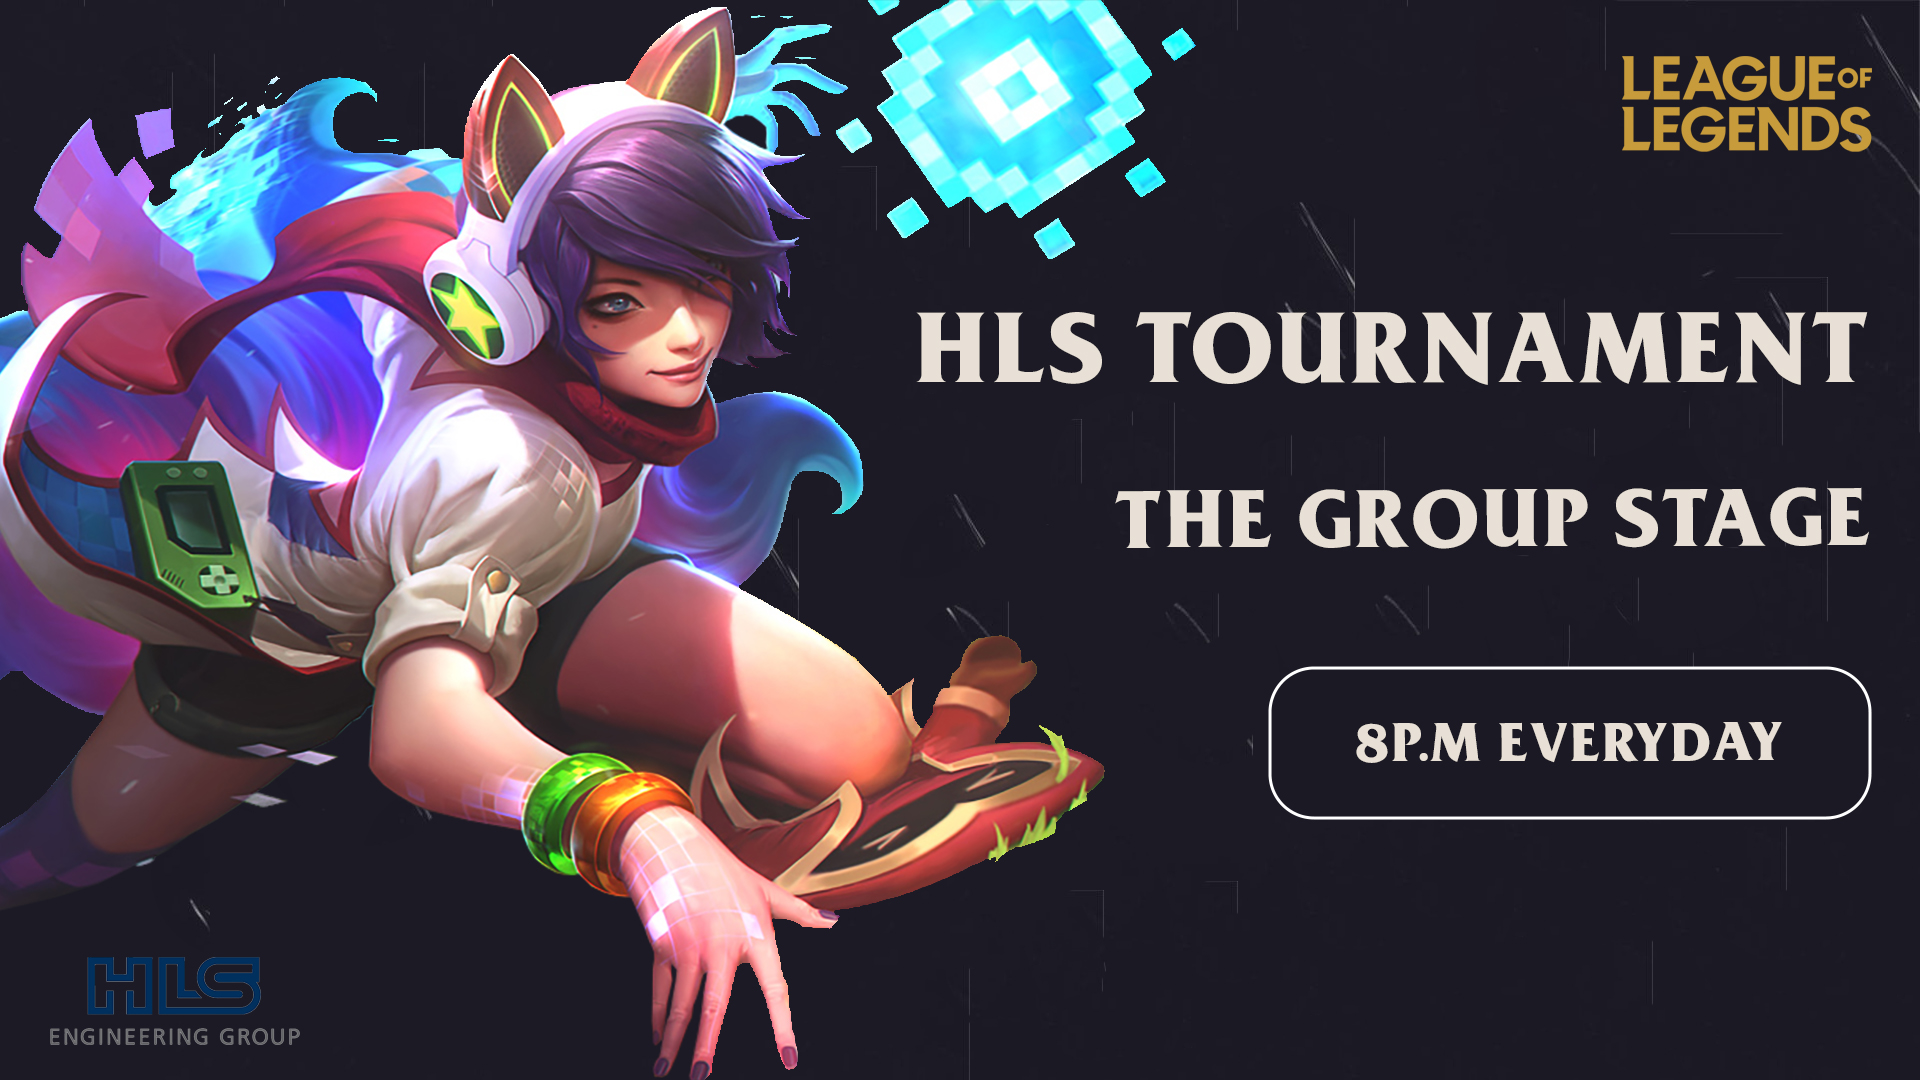
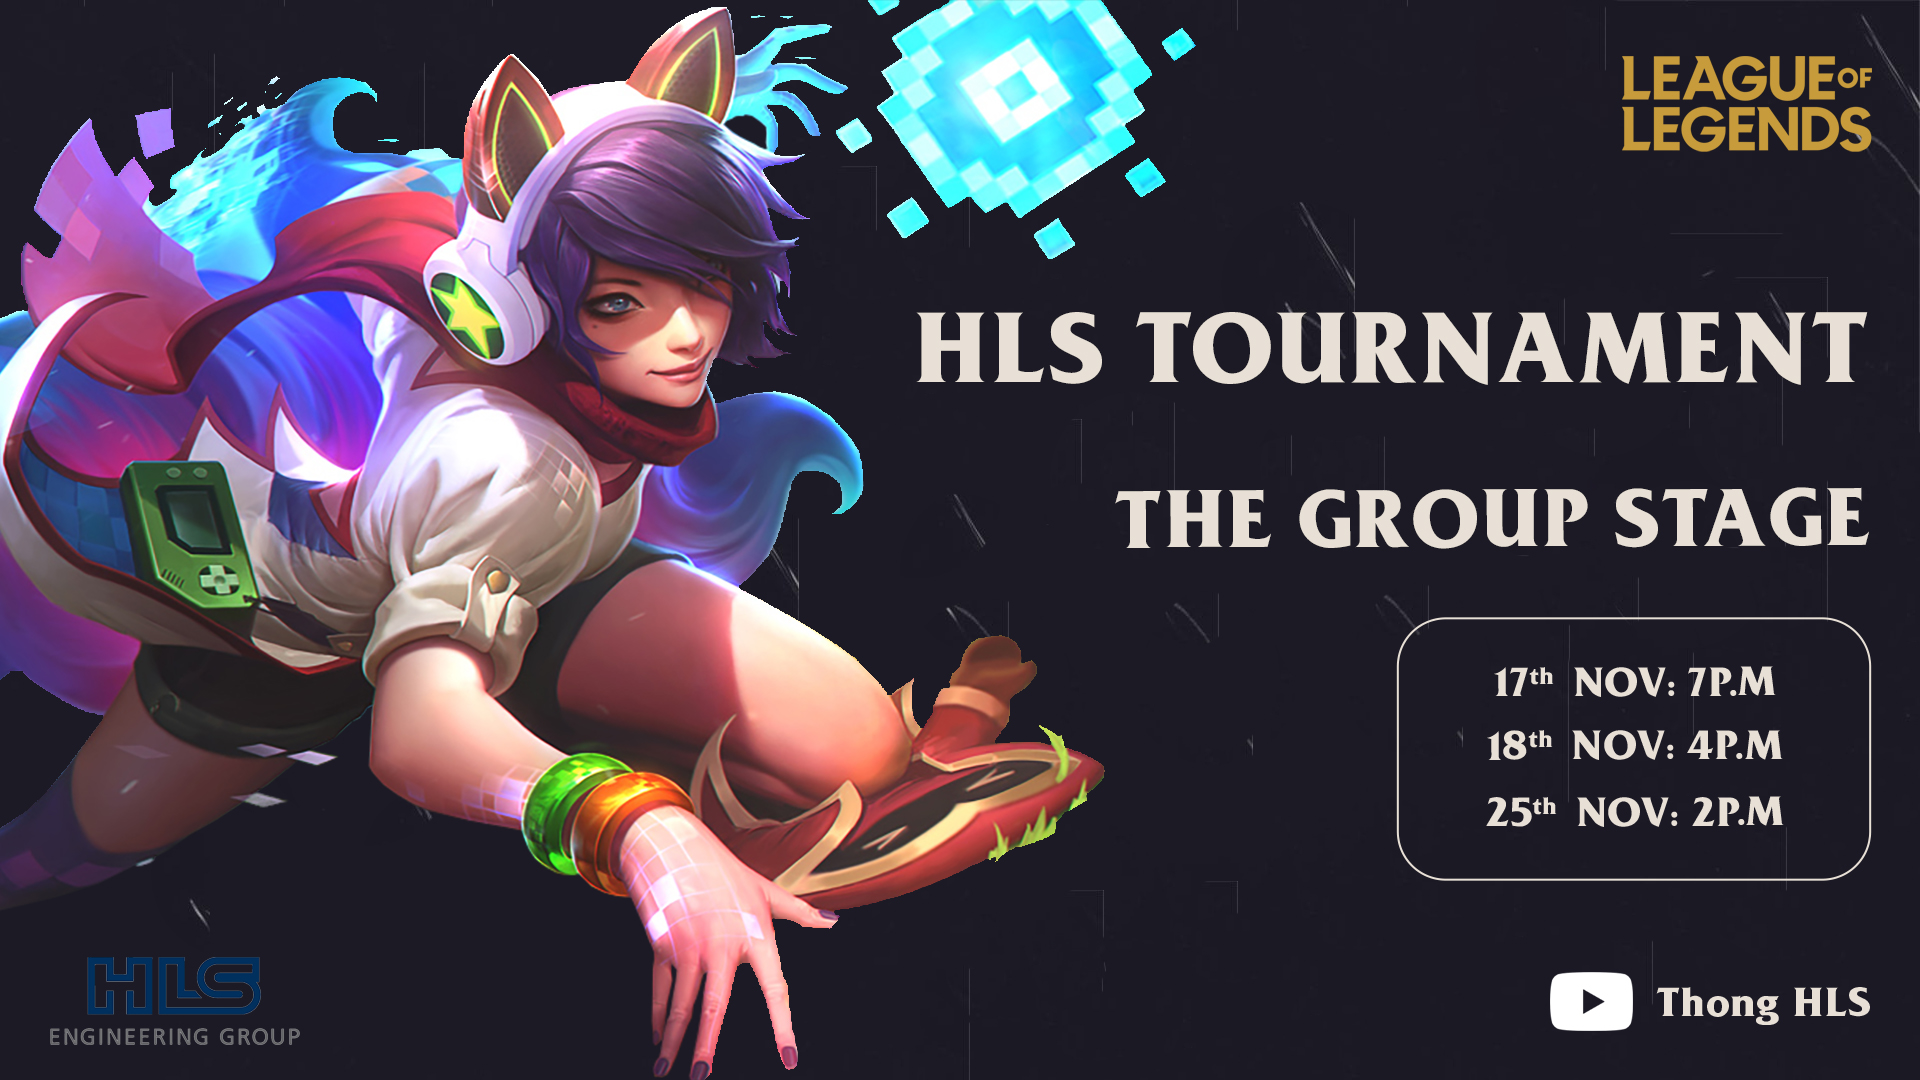
up day 2 18th november

Changed region(s): [[0.6562, 0.6111, 0.9688, 0.7028], [0.6562, 0.7333, 0.9688, 0.7639], [0.7812, 0.8861, 0.9688, 0.9778]]

diff --git a/app/[page]/UI.js b/app/[page]/UI.js
@@ -11,7 +11,7 @@ export default function Index({ dataPage }) {
   /////////////////////////////
   ////// TRANSITION SCHEDULE
   const [day, setDay] = useState({
-    number: 0,
+    number: 2,
     date: [
       '(17<sup>th</sup> NOV)',
       '(18<sup>th</sup> NOV)',
@@ -29,30 +29,30 @@ export default function Index({ dataPage }) {
     }, 1100)
   }
 
-  useEffect(() => {
-    const intervalId = setInterval(() => {
-      if (day.number >= 0 && day.number < 3) {
-        setTimeout(() => {
-          setDay(prevDay => ({
-            ...prevDay,
-            number: prevDay.number + 1
-          }));
-        }, 500)
+  // useEffect(() => {
+  //   const intervalId = setInterval(() => {
+  //     if (day.number >= 0 && day.number < 3) {
+  //       setTimeout(() => {
+  //         setDay(prevDay => ({
+  //           ...prevDay,
+  //           number: prevDay.number + 1
+  //         }));
+  //       }, 500)
 
-        handleTransition()
-      } else {
-        setTimeout(() => {
-          setDay(prevDay => ({
-            ...prevDay,
-            number: 0
-          }));
-        }, 500)
-        handleTransition()
-      }
-    }, 10000)
-    // console.log(day)
-    return () => clearInterval(intervalId);
-  }, [day.number])
+  //       handleTransition()
+  //     } else {
+  //       setTimeout(() => {
+  //         setDay(prevDay => ({
+  //           ...prevDay,
+  //           number: 0
+  //         }));
+  //       }, 500)
+  //       handleTransition()
+  //     }
+  //   }, 2000)
+  //   // console.log(day)
+  //   return () => clearInterval(intervalId);
+  // }, [day.number])
 
   // console.log(dataPage.schedule[day.number])
 
@@ -90,14 +90,14 @@ export default function Index({ dataPage }) {
   ////////////////////////////////
   /////// LAYOUT NEXTGAME
   const [bg, setBG] = useState(false)
-  const [team1, setTeam1] = useState('HOR')
-  const [team2, setTeam2] = useState('TCS')
-  const [logoteam1, setLogoTeam1] = useState('hornet')
-  const [logoteam2, setLogoTeam2] = useState('chickenslayers')
+  const [team1, setTeam1] = useState('COM')
+  const [team2, setTeam2] = useState('PDSI')
+  const [logoteam1, setLogoTeam1] = useState('combatant')
+  const [logoteam2, setLogoTeam2] = useState('pdsi')
 
   const targetTimezone = 'Asia/Ho_Chi_Minh'; // (GMT+7)
-  const [hourCountDown, setHourCountDown] = useState(21)
-  const [minuteCountDown, setMinuteCountDown] = useState(22)
+  const [hourCountDown, setHourCountDown] = useState(16)
+  const [minuteCountDown, setMinuteCountDown] = useState(0)
   const [secondCountDown, setSecondCountDown] = useState(0)
   const [countdown, setCountdown] = useState(
     calculateCountdown(hourCountDown, minuteCountDown, secondCountDown, targetTimezone)
@@ -108,7 +108,7 @@ export default function Index({ dataPage }) {
       const newCountdown = calculateCountdown(hourCountDown, minuteCountDown, secondCountDown, targetTimezone);
       setCountdown(newCountdown);
 
-      console.log(newCountdown.minutes, newCountdown.seconds)
+      // console.log(newCountdown.minutes, newCountdown.seconds)
 
       // Check if the target time has been reached
       if (newCountdown.minutes <= 0 && newCountdown.seconds <= 0) {
@@ -128,10 +128,14 @@ export default function Index({ dataPage }) {
     let bg = urlParams.get('bg');
     let match2 = urlParams.get('match2');
     let bgmatch2 = urlParams.get('bgmatch2');
+    let match3 = urlParams.get('match3');
+    let bgmatch3 = urlParams.get('bgmatch3');
 
     if (bg) setBG(true)
-    if (match2) setHourCountDown(21), setMinuteCountDown(27), setTeam1('TCS'), setTeam2('COM'), setLogoTeam1('chickenslayers'), setLogoTeam2('combatant')
-    if (bgmatch2) setBG(true), setHourCountDown(21), setMinuteCountDown(30), setTeam1('TCS'), setTeam2('COM'), setLogoTeam1('chickenslayers'), setLogoTeam2('combatant')
+    if (match2) setHourCountDown(17), setMinuteCountDown(0), setTeam1('PDSI'), setTeam2('2K'), setLogoTeam1('pdsi'), setLogoTeam2('2k')
+    if (bgmatch2) setBG(true), setHourCountDown(17), setMinuteCountDown(0), setTeam1('PDSI'), setTeam2('2K'), setLogoTeam1('pdsi'), setLogoTeam2('2k')
+    if (match3) setHourCountDown(17), setMinuteCountDown(0), setTeam1('2K'), setTeam2('HOR'), setLogoTeam1('2k'), setLogoTeam2('hornet')
+    if (bgmatch3) setBG(true), setHourCountDown(17), setMinuteCountDown(0), setTeam1('2K'), setTeam2('HOR'), setLogoTeam1('2k'), setLogoTeam2('hornet')
   }, [])
 
 
@@ -199,7 +203,7 @@ export default function Index({ dataPage }) {
       {
         dataPage && dataPage.slug == 'nextgame' &&
         <main className={`${styles.root3} ${bg ? styles.bg : ''}`} >
-          <header dangerouslySetInnerHTML={{ __html: `GROUP STAGE - DAY 1 (17<sup>th</sup> NOV) ` }} />
+          <header dangerouslySetInnerHTML={{ __html: `GROUP STAGE - DAY 2 (18<sup>th</sup> NOV) ` }} />
           <div className={styles.board}>
             <div className={styles.content}>
               <div>

diff --git a/lib/DataPages.js b/lib/DataPages.js
@@ -15,12 +15,12 @@ const DataPages = [
         'schedule': [
             [
                 {
-                    'team1': 'hornet', 'tag1': 'hor', 'lose1' : false,
+                    'team1': 'hornet', 'tag1': 'hor', 'lose1' : true,
                     'team2': 'chicken slayers', 'tag2': 'tcs', 'lose2' : false,
                 },
                 {
                     'team1': 'chicken slayers', 'tag1': 'tcs', 'lose1' : false,
-                    'team2': 'combatant', 'tag2': 'com', 'lose2' : false,
+                    'team2': 'combatant', 'tag2': 'com', 'lose2' : true,
                 }
             ],
 

diff --git a/app/[page]/styles.module.scss b/app/[page]/styles.module.scss
@@ -24,7 +24,7 @@
 // SCHEDULE
 .root1 {
     height: 100%;
-    // background-color: black;
+    background-color: black;
 
     &.transition {
         animation: change 1s linear;
